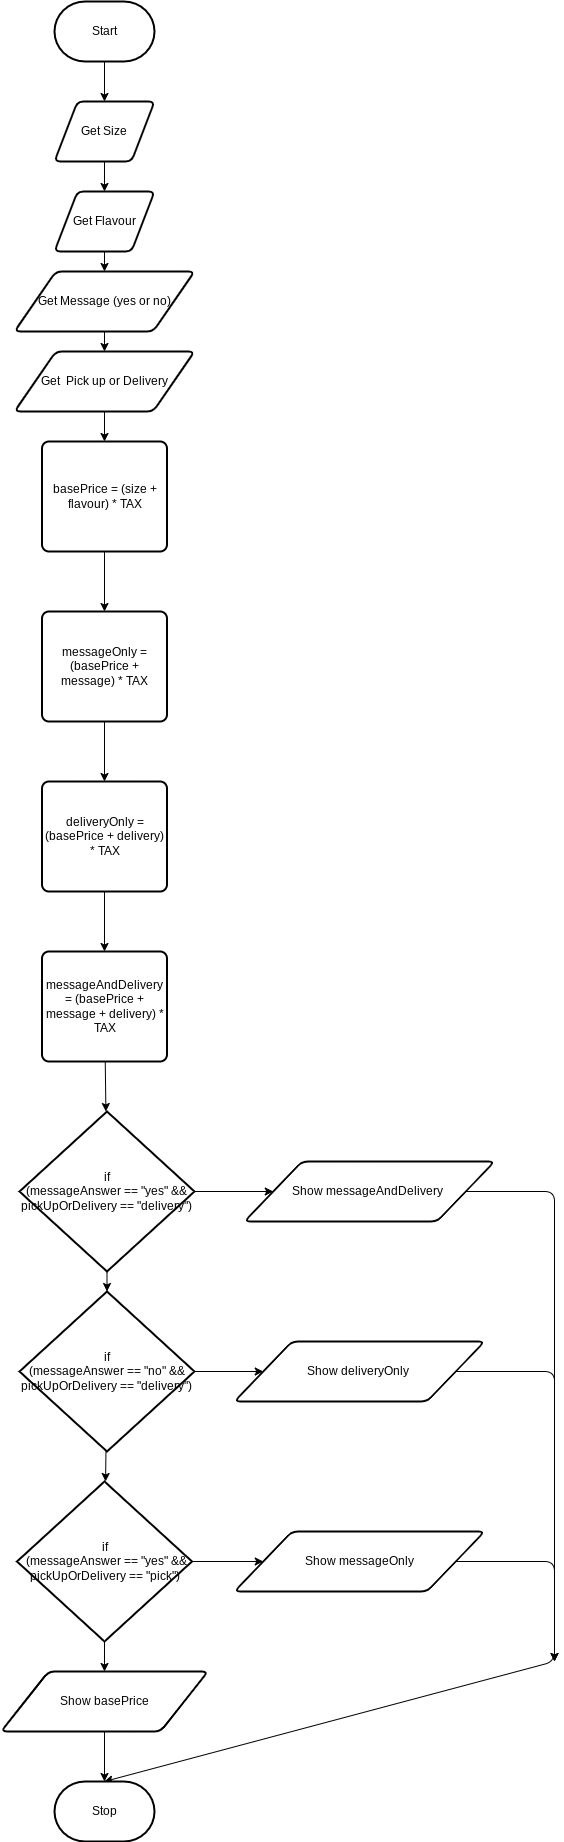
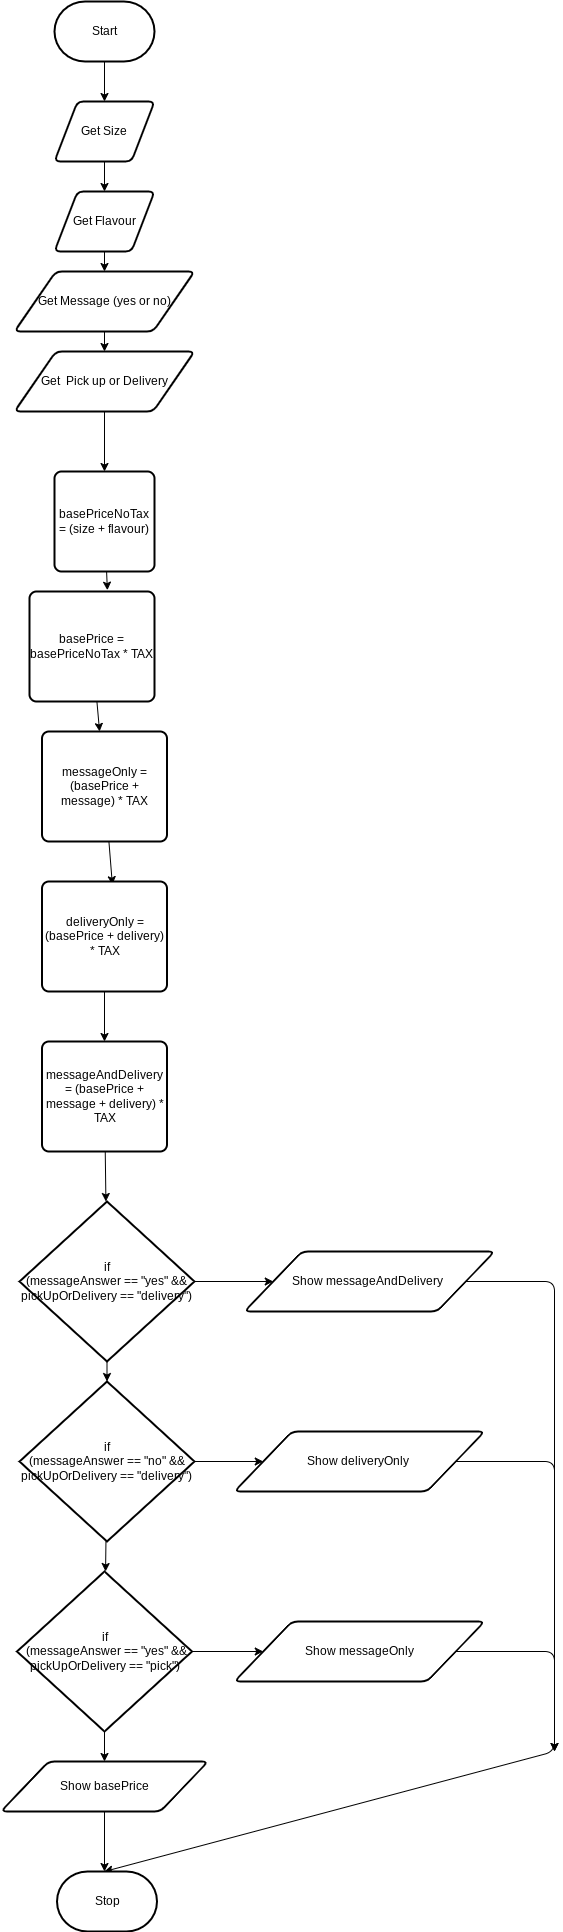
js and flow chart

diff --git a/js/script.js b/js/script.js
@@ -27,8 +27,8 @@ function myButtonClicked() {
   const messageAnswer = document.getElementById("message").value
   const pickUpOrDelivery = document.getElementById("pick-up-or-delivery").value
 
-  const basePriceNoTAX = size + flavour
-  const basePrice = (size + flavour) * TAX
+  const basePriceNoTAX = (size + flavour)
+  const basePrice = basePriceNoTAX * TAX
   const messageOnly = (basePriceNoTAX + message) * TAX
   const deliveryOnly = (basePriceNoTAX + delivery) * TAX
   const messageAndDelivery = (basePriceNoTAX + message + delivery) * TAX
